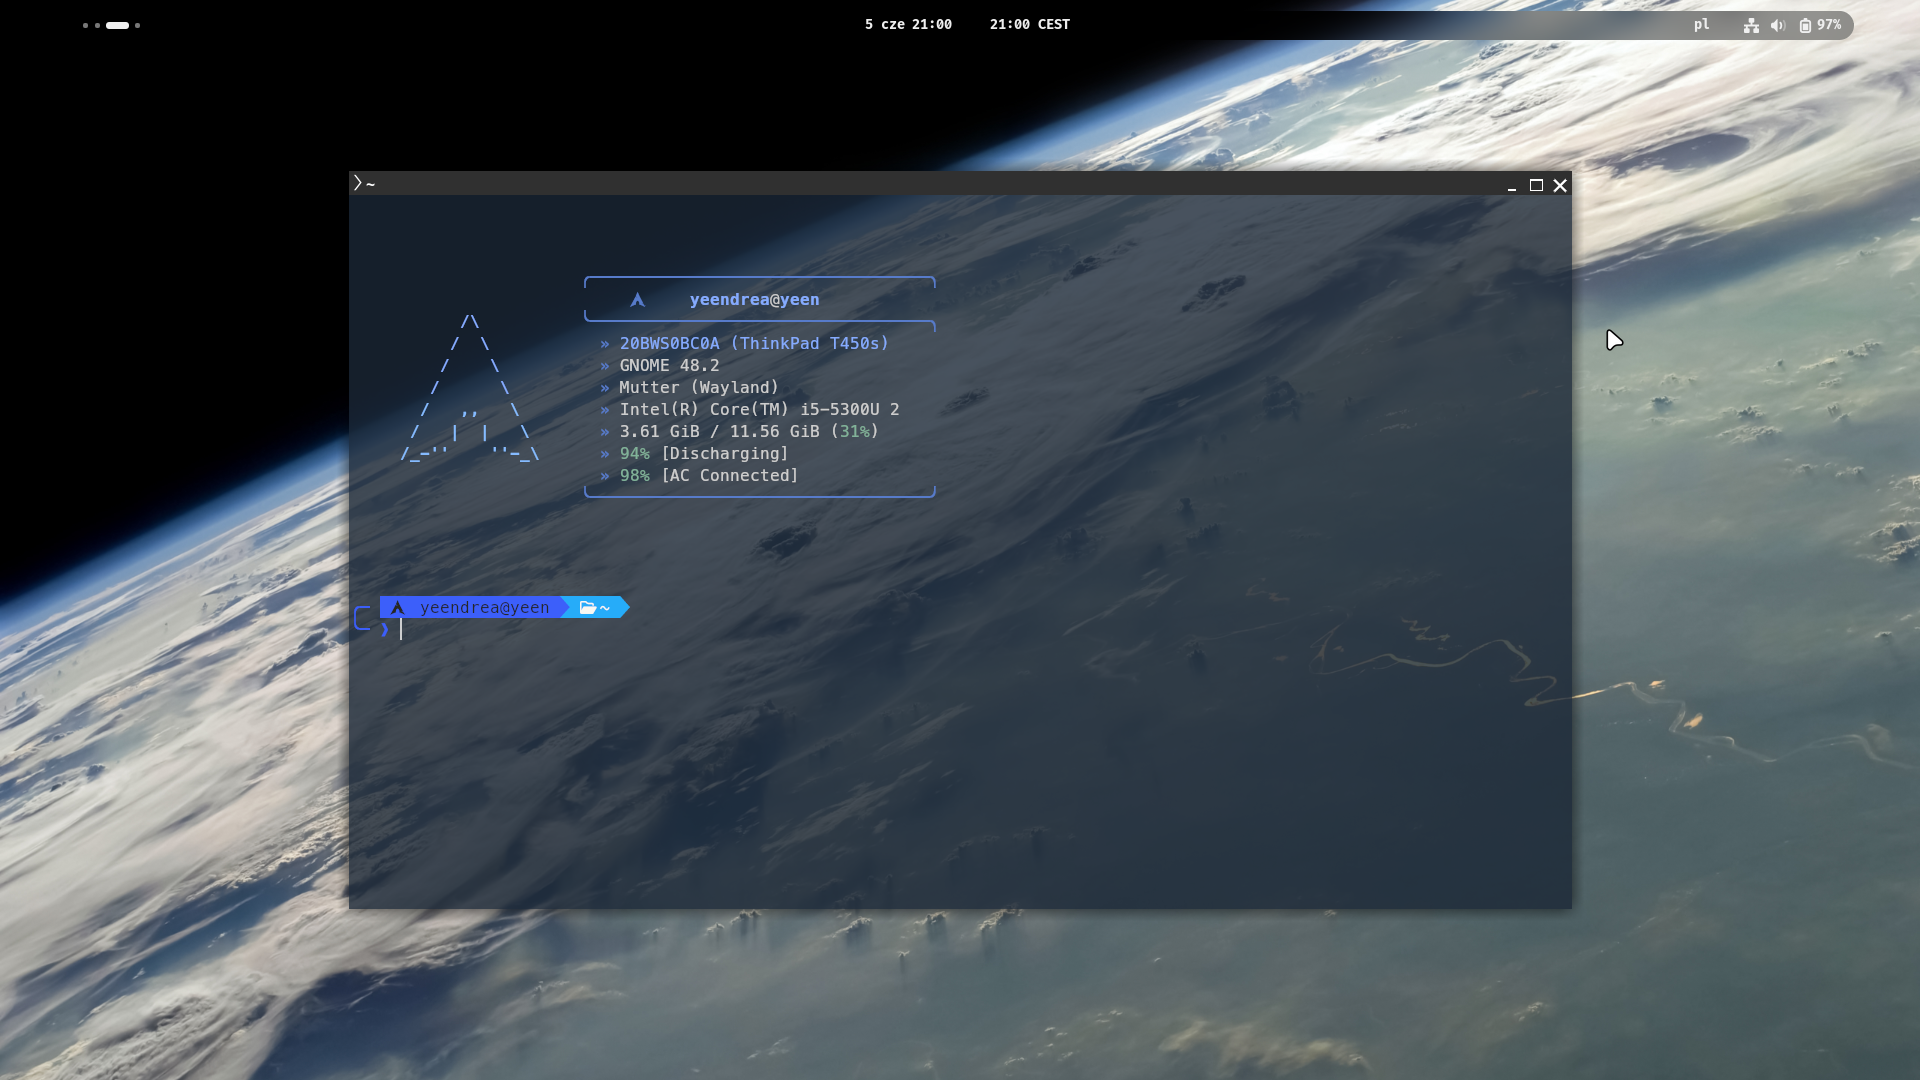
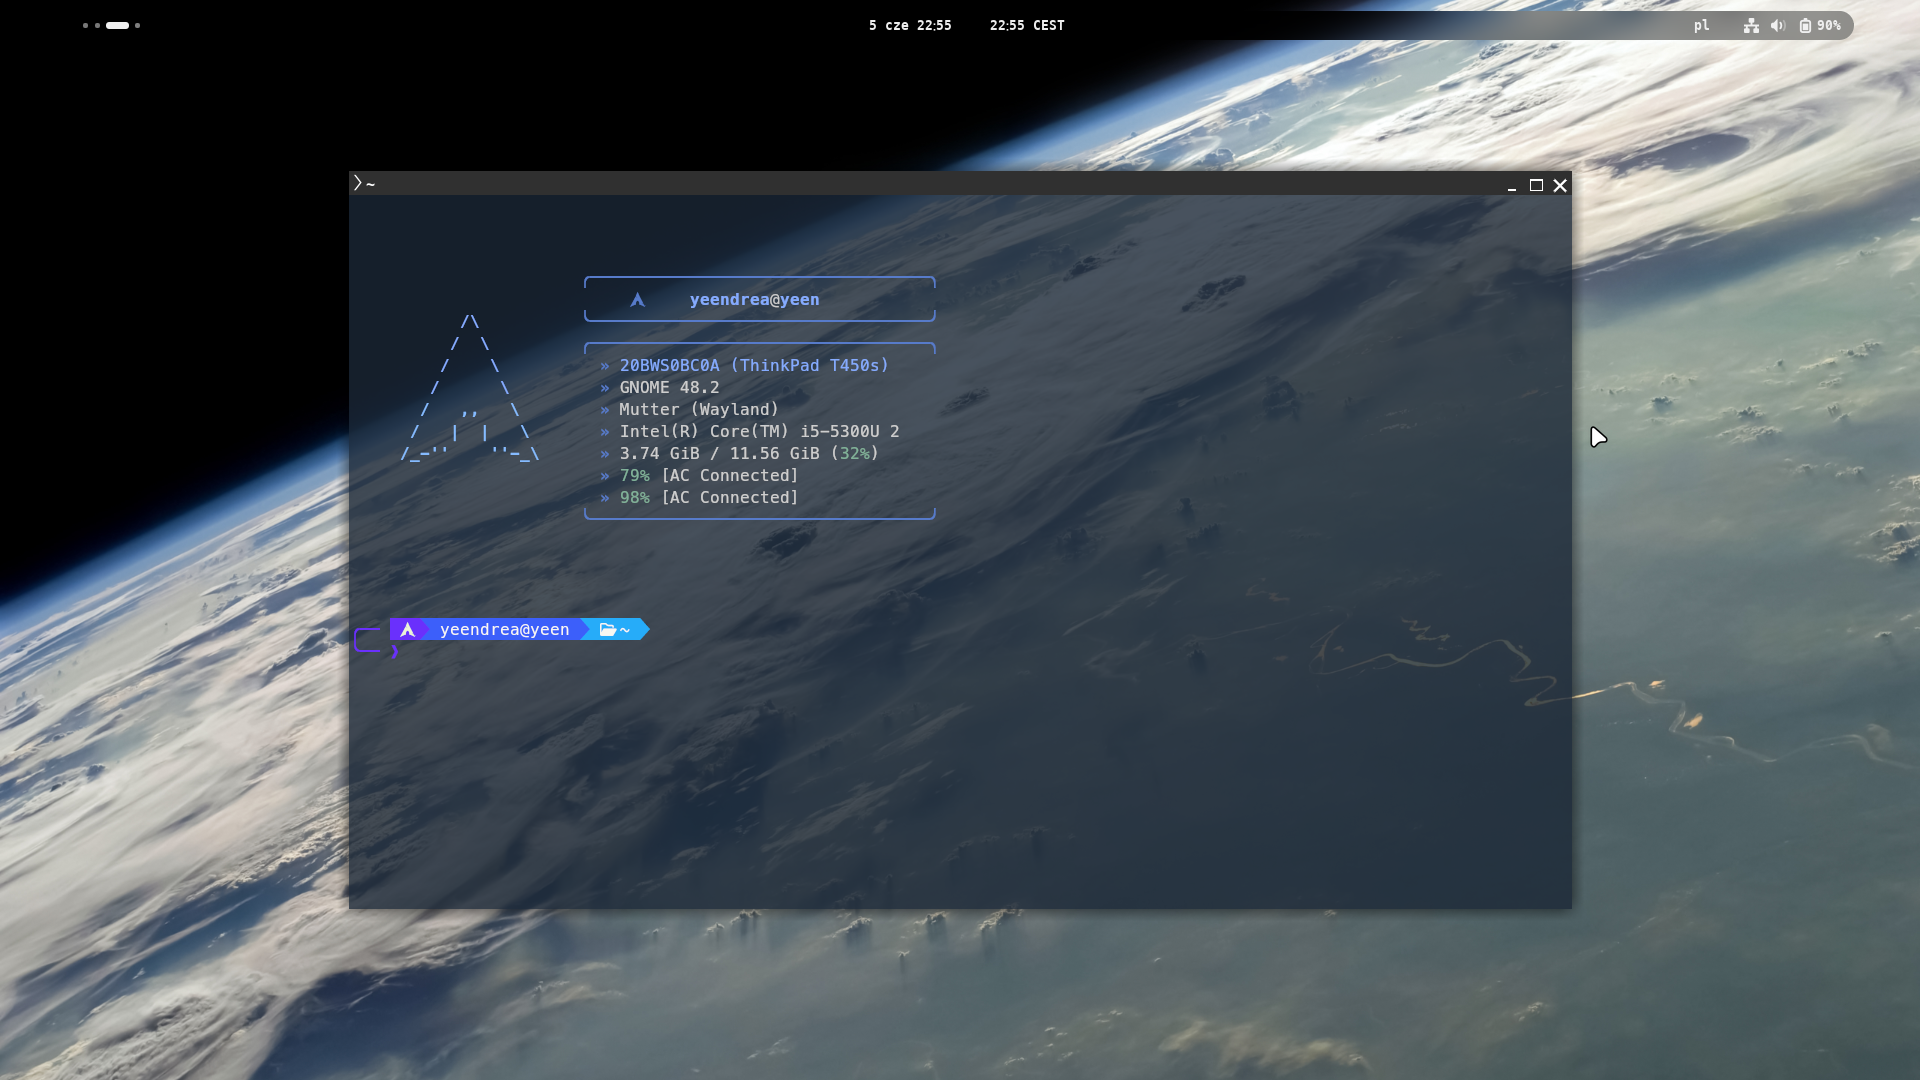
updated preview and added prompt preview

diff --git a/README.md b/README.md
@@ -30,7 +30,7 @@
 # 02:
 
 ![preview02](./media/preview2.png)
-
+![prompt preview](./media/prompt-preview2.png)
 ## Files
 *   **[kitty.conf](./kitty/kitty.conf)**
 *   **[.bashrc](./Bash/02.bashrc)**
